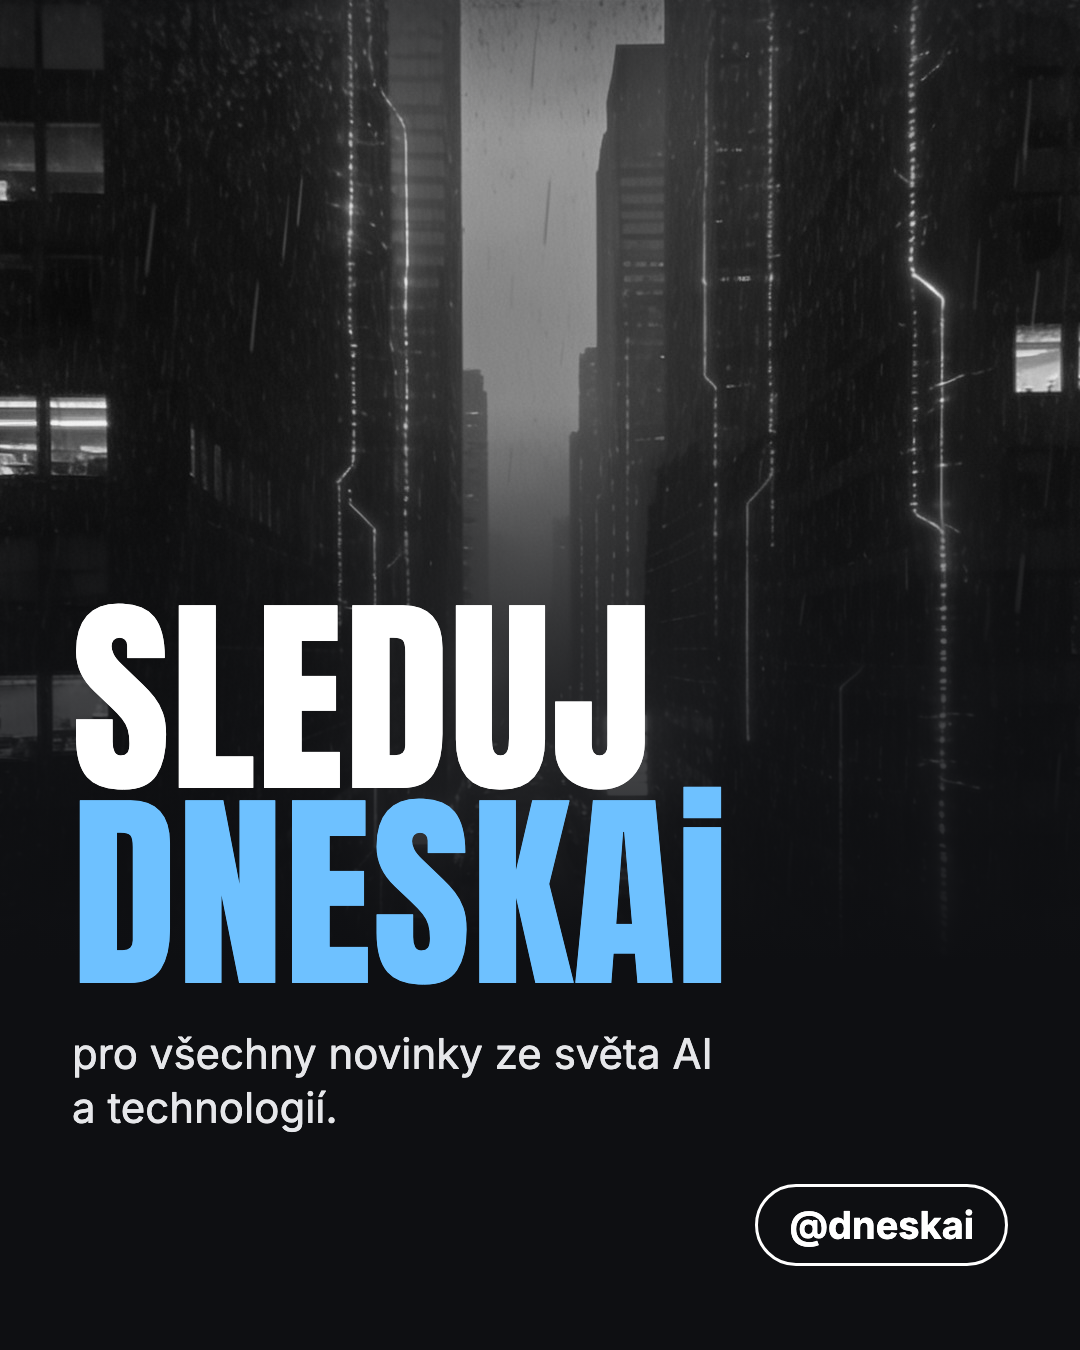
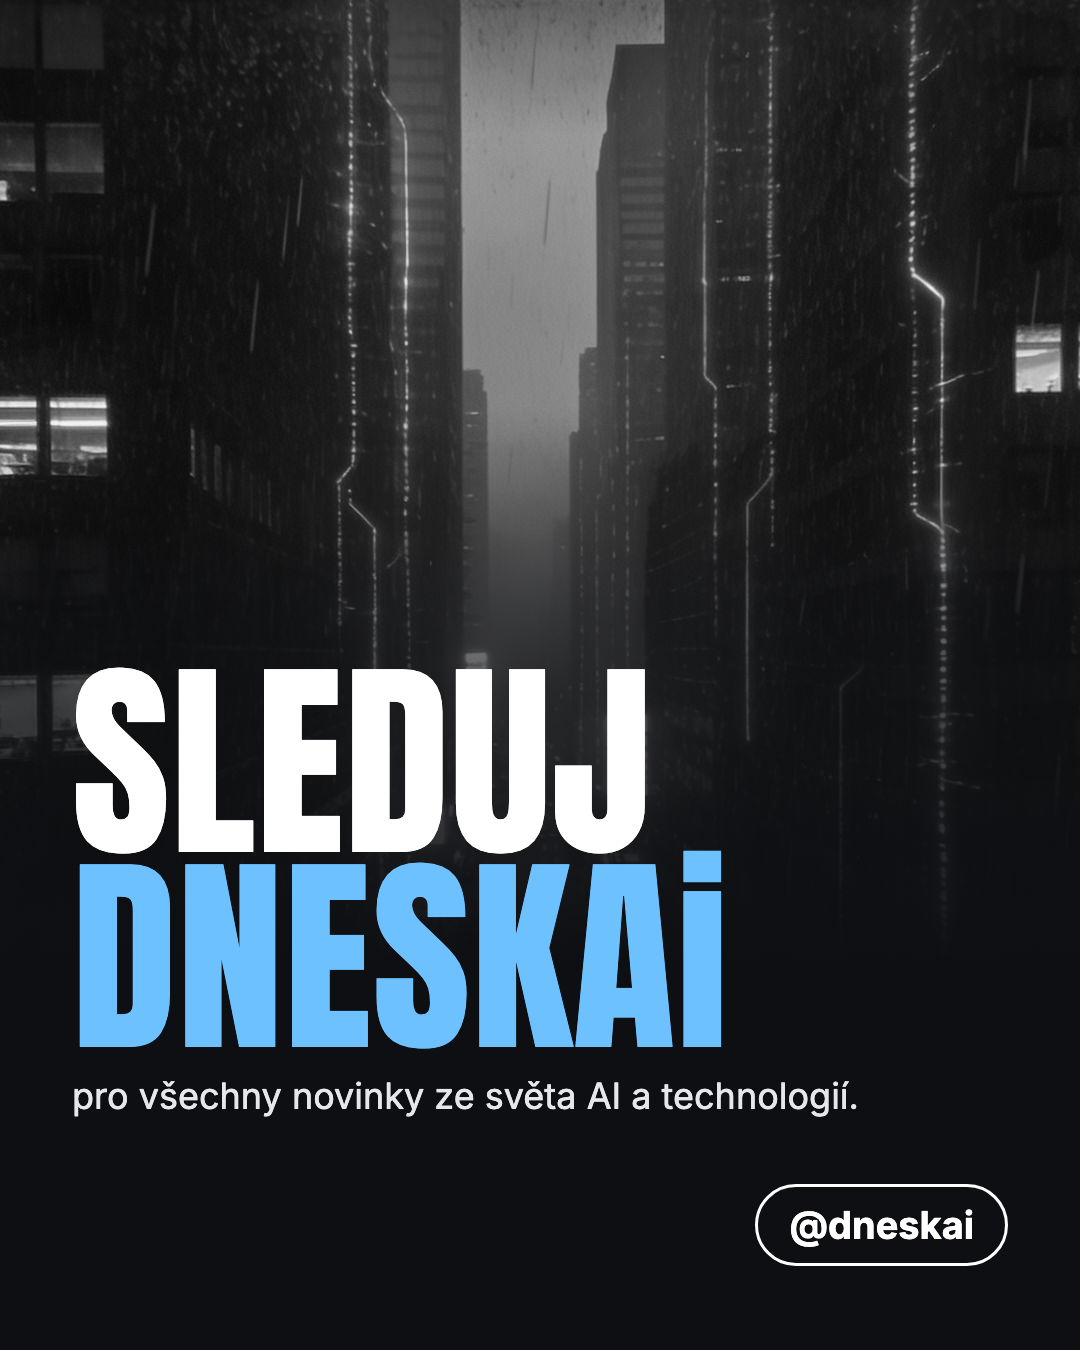
Set the closing card's follow line closer to the headline and smaller
Owner, 8 November 2026: 36 px instead of 42, 18 px under DNESKAi.

Changed region(s): [[0.0611, 0.4356, 0.7944, 0.84], [0.55, 0.4356, 0.6111, 0.4978]]

diff --git a/src/lib/marketing/dneskai-closing.ts b/src/lib/marketing/dneskai-closing.ts
@@ -18,7 +18,7 @@ export const DNESKAI_CLOSING_FILE = ["templates", "carousel-studio", "brand-kits
  * and "DNESKAi" in tall capitals, the follow line and the handle in a white outlined pill. The render draws this file instead of laying the
  * slide out in the deck's kit; its source is `closing-card-source/card.html` next to it.
  */
[2 lines of base64/hex data omitted]
 export const DNESKAI_CLOSING_CARD_FILE = ["templates", "carousel-studio", "brand-kits", "caught-up", "dneskai-closing-card.png"] as const;
 export const DNESKAI_CLOSING_CARD_TEMPLATE = { id: "dneskai-closing-card", version: "1.0.0" } as const;
 export const DNESKAI_CLOSING_HEADLINE = "Sleduj [[DNESKAi]]";

diff --git a/templates/carousel-studio/brand-kits/caught-up/closing-card-source/card.html b/templates/carousel-studio/brand-kits/caught-up/closing-card-source/card.html
@@ -10,8 +10,8 @@ html,body{margin:0;width:1080px;height:1350px;background:#0E0F12;overflow:hidden
 .block{position:absolute;left:72px;right:72px;bottom:84px}
 .h{font-family:Anton;font-size:212px;line-height:.92;color:#fff;text-transform:uppercase;letter-spacing:.005em}
 .h .b{color:#6EC1FF;text-transform:none}
-.p{margin-top:36px;font:400 42px/1.3 Inter;color:#E6E7EA;max-width:880px}
-.row{margin-top:48px;display:flex;align-items:center;justify-content:flex-end;gap:24px}
+.p{margin-top:18px;font:400 36px/1.3 Inter;color:#E6E7EA;max-width:880px}
+.row{margin-top:64px;display:flex;align-items:center;justify-content:flex-end;gap:24px}
 .pill{font:700 38px/1 Inter;color:#fff;background:transparent;border:3px solid #fff;padding:19px 31px;border-radius:999px}
 </style></head><body>
 <div class="photo"></div><div class="fade"></div>

diff --git a/templates/carousel-studio/brand-kits/caught-up/dneskai-closing.md b/templates/carousel-studio/brand-kits/caught-up/dneskai-closing.md
@@ -22,6 +22,6 @@ finished 1080 × 1350 card instead, the same in Spotlight and Plakát:
   a technologií." in Inter; "@dneskai" in white inside a white outlined pill with no fill, bottom right (owner, 8 November 2026: no "Instagram · Threads").
 - Source: `closing-card-source/card.html` with `photo.jpg`, screenshot at 1080 × 1350 in Playwright Chromium.
   A new screenshot is not byte-identical, so a redraw changes the pinned hash.
[2 lines of base64/hex data omitted]
   `src/lib/marketing/dneskai-closing.ts` (`DNESKAI_CLOSING_CARD_SHA256`). The deck still names the closing slide by
   the picture's hash above; the render sees that hash and draws the card.
